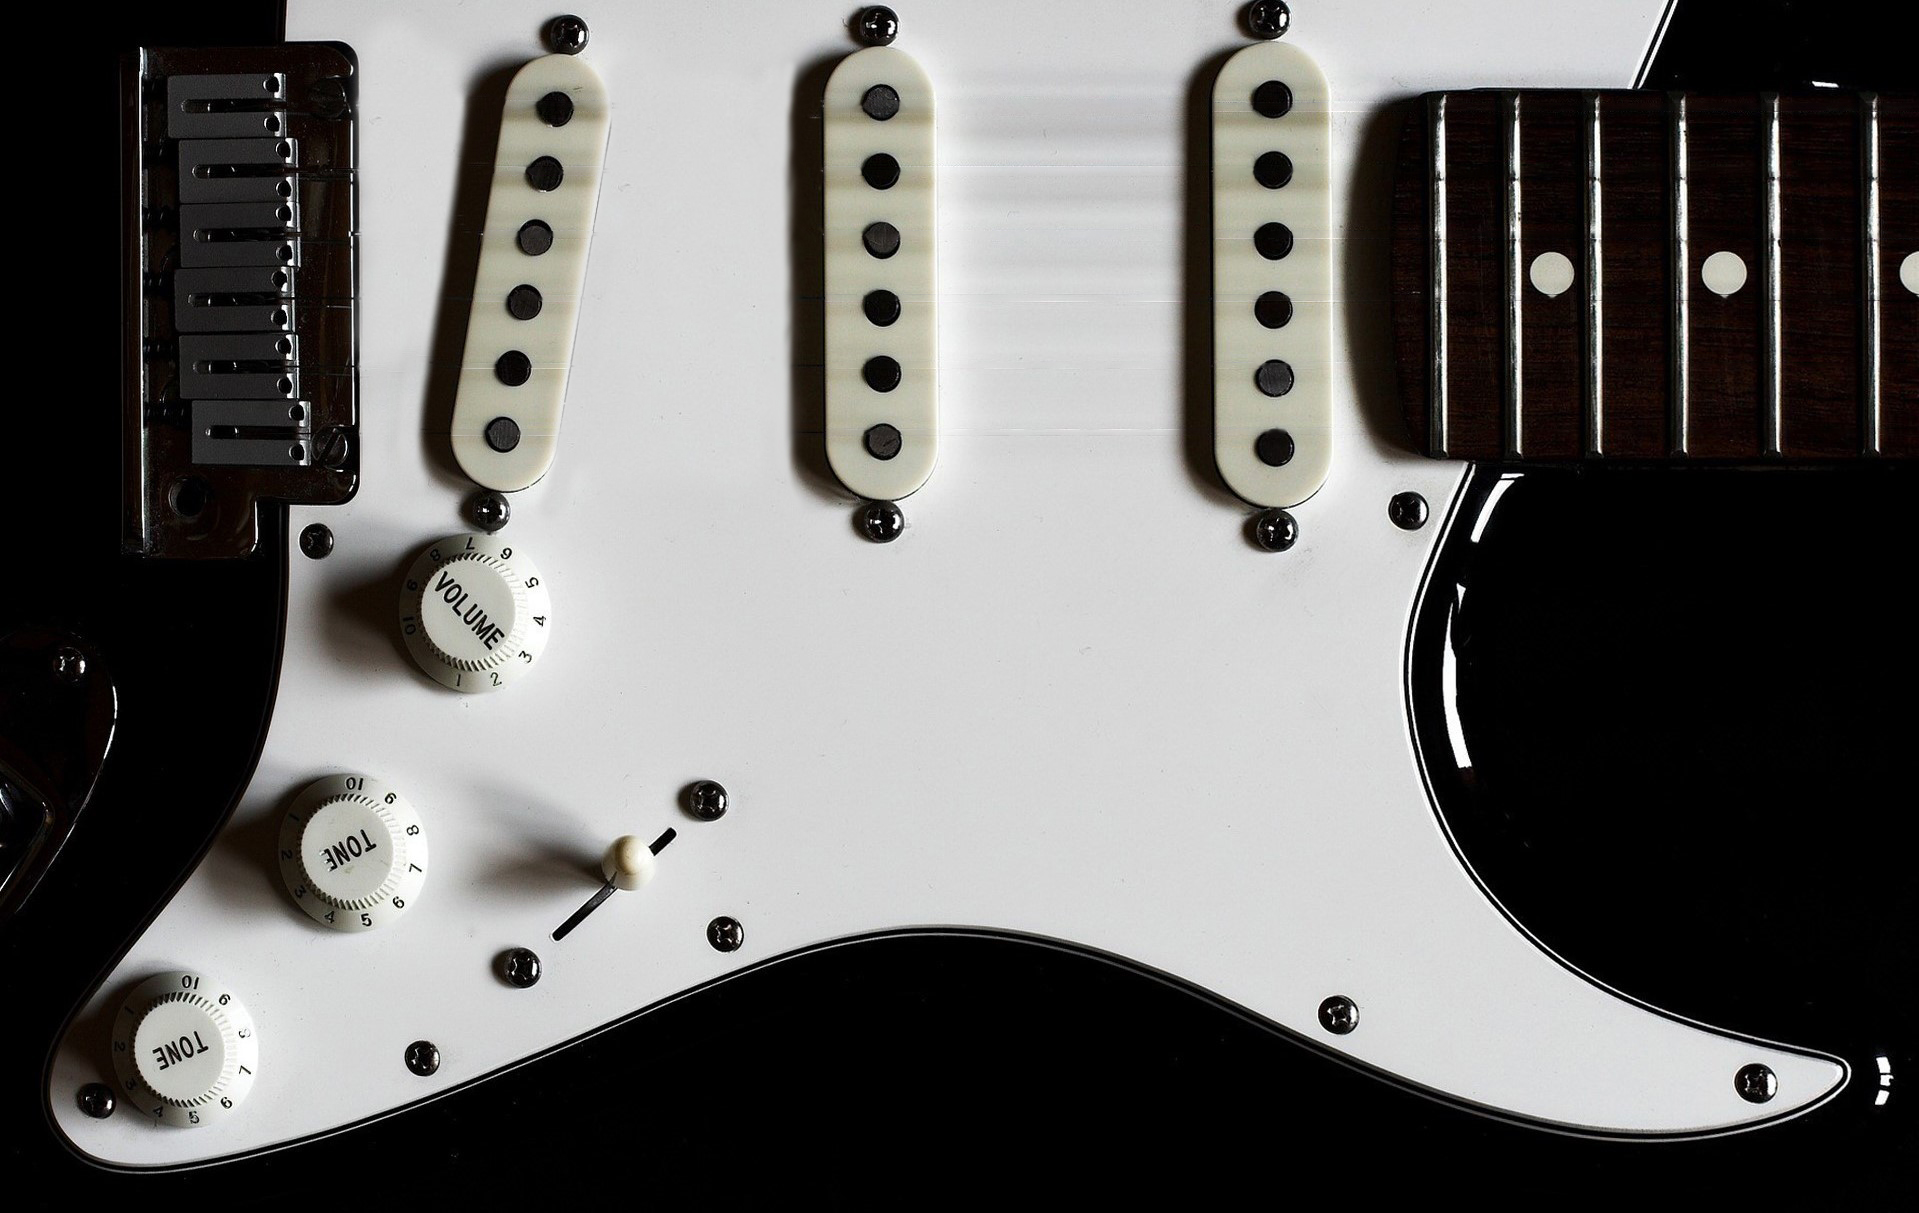
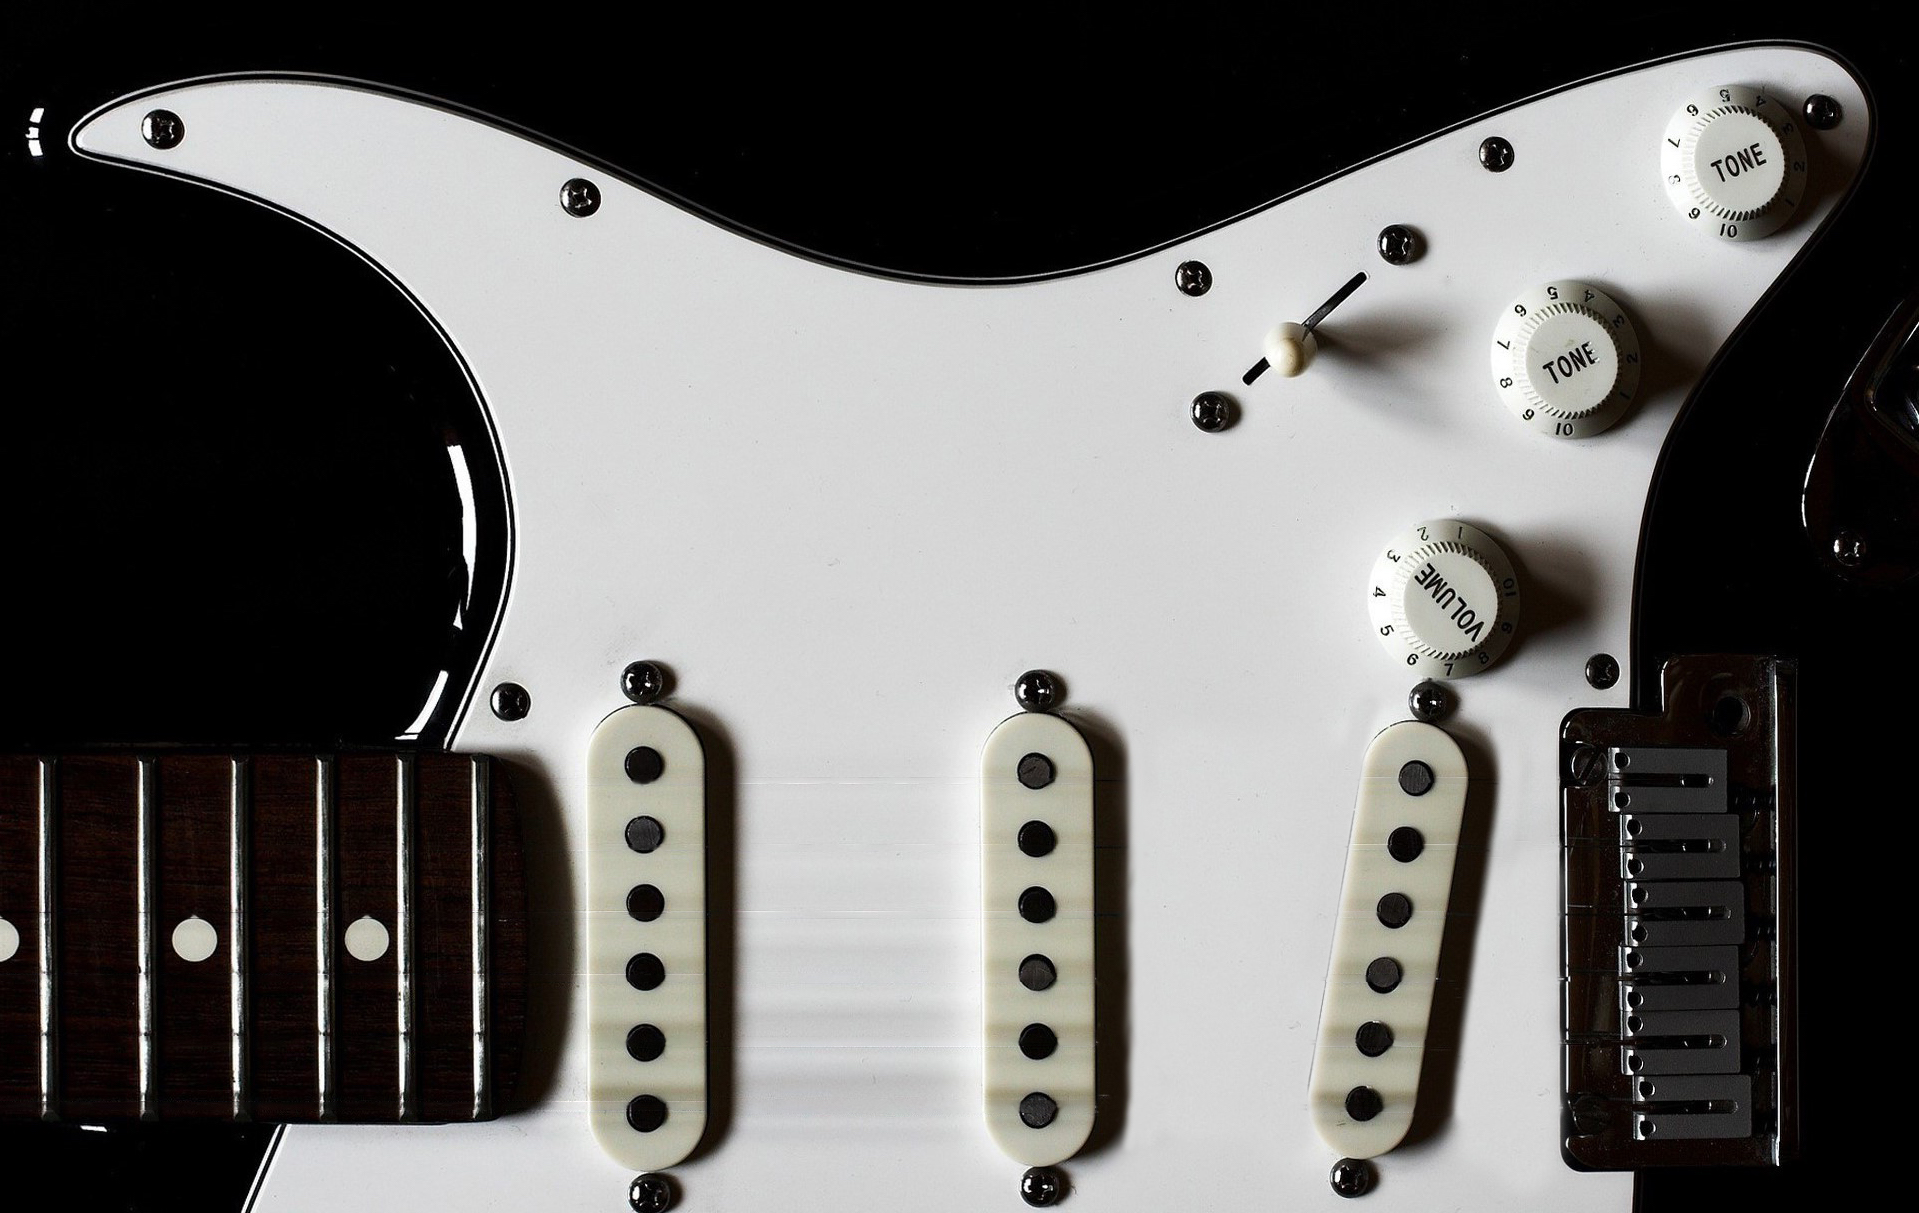
feat: finish reverse background image
Close #15

diff --git a/ui/js/guitar.js b/ui/js/guitar.js
@@ -18,9 +18,9 @@ $(document).ready(function() {
     // Currently the positions are hard-coded, but by using 'vh' & 'vw',
     // they are supposed to be constrained by a percentage w.r.t the viewport.
     function createString(i) {
-        var START_TOP = 1.7;
-        var SPACING = 6;
-        var THICKNESS = 2;
+        var START_TOP = 60;
+        var SPACING = 5;
+        var THICKNESS = 1 + i / 2; 
         string = jQuery('<hr/>', {
             id: 'string' + i,
             class: 'guitar-string'
@@ -32,7 +32,7 @@ $(document).ready(function() {
     }
 
     function createChordSelect(i) {
-        var START_TOP = 45;
+        var START_TOP = 25;
         var START_LEFT = 33;
         var sideLen = Math.sqrt(NUM_CHORD);
         var sizeH = 12 * 1.2;

diff --git a/ui/css/guitar.css b/ui/css/guitar.css
@@ -10,7 +10,7 @@ hr.guitar-string {
     border: 0px;
     background-color: rgba(50, 50, 50, 1.0);
     position: absolute;
-    left: 9vw;
+    left: -2vw;
     width: 100vw;
     margin: 1vw;
 }

diff --git a/ui/js/fetch.js b/ui/js/fetch.js
@@ -23,4 +23,4 @@ function fetch() {
     });
 }
 
-setInterval(fetch, 25);
+setInterval(fetch, 50);

diff --git a/app.py b/app.py
@@ -4,9 +4,11 @@ from sound import Guitar, Player, fetch
 
 from flask import Flask, request
 from flask_cors import CORS
-
+import logging
 app = Flask(__name__)
 CORS(app)
+logger = logging.getLogger('werkzeug')
+logger.setLevel(logging.ERROR)
 
 @app.route("/fetch", methods=['POST'])
 def picked():
